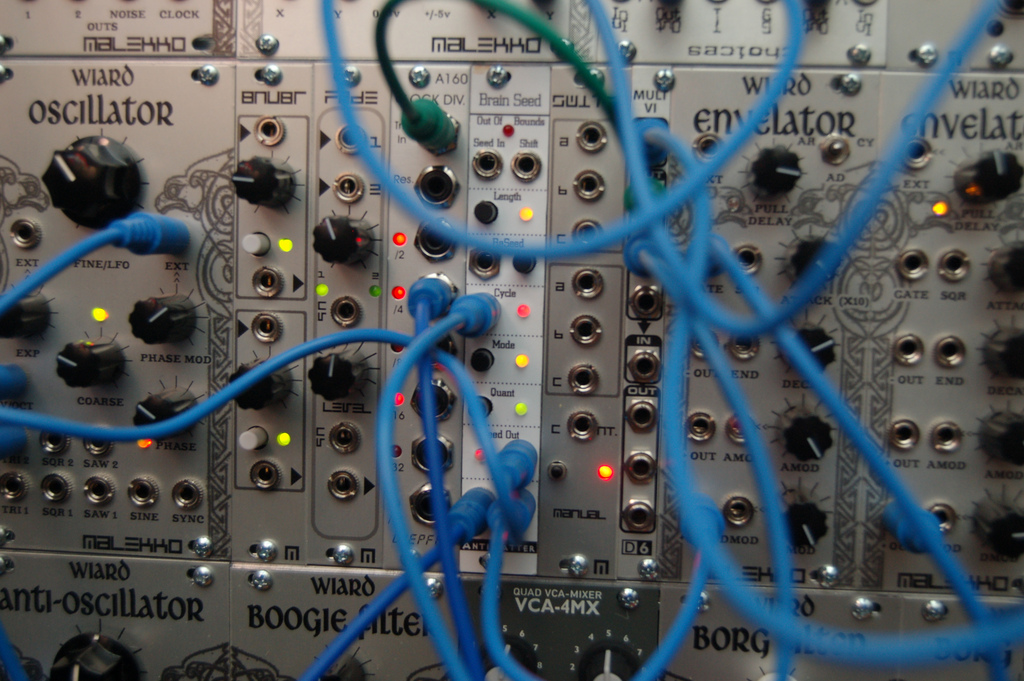
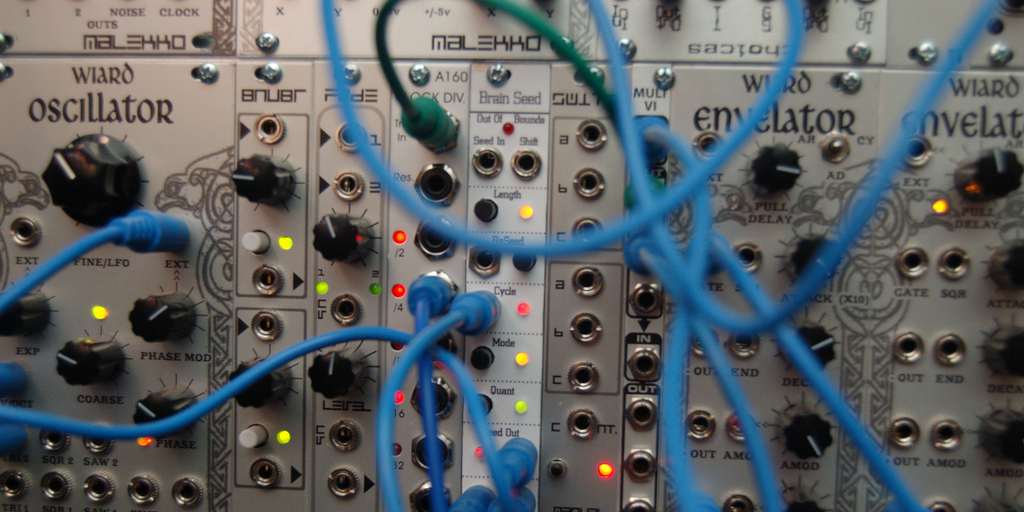
Aggiunto post su ESAPI e le stringhe pseudocasuali e ridimensionate alcune immagini

diff --git a/_includes/_footer.html b/_includes/_footer.html
@@ -1,6 +1,1 @@
 <span>codiceinsicuro.it v {{site.version}} &mdash; &copy; {{ site.time | date: '%Y' }} {{ site.owner.name }}. Powered by <a href="http://jekyllrb.com">Jekyll</a> using the <a href="http://mademistakes.com/minimal-mistakes/">Minimal Mistakes</a> theme.</span>
-
-<a title="Real Time Analytics" href="http://clicky.com/100726702"><img alt="Real Time Analytics" src="//static.getclicky.com/media/links/badge.gif" border="0" /></a>
-<script src="//static.getclicky.com/js" type="text/javascript"></script>
-<script type="text/javascript">try{ clicky.init(100726702); }catch(e){}</script>
-<noscript><p><img alt="Clicky" width="1" height="1" src="//in.getclicky.com/100726702ns.gif" /></p></noscript>

diff --git a/_posts/2014-05-15-creiamo-una-stringa-di-caratteri-casuali-con-owasp-esapi-e-java.md b/_posts/2014-05-15-creiamo-una-stringa-di-caratteri-casuali-con-owasp-esapi-e-java.md
@@ -1,0 +1,100 @@
+---
+layout: post
+title: "Creiamo una stringa di caratteri casuali con Owasp ESAPI e Java"
+modified:
+category: [builders, quick howto]
+tags: [owasp, owasp esapi, java, numero casuale, pseudorandom, h4f]
+image:
+  feature: random_string_2.png
+  credit: Jannis Andrija Schnitzer
+  creditlink: https://flic.kr/p/3wEaFB
+comments: true
+share: true
+---
+
+Spesso si ha l'esigenza di creare una stringa di caratteri alfanumerici che sia
+casuale. Ad esempio possiamo usarla come password temporanea, come salt per
+offuscare una password, come chiave, ...
+
+Senza inventare un'altra volta la ruota, possiamo usare la libreria [Owasp
+ESAPI **LINK**](#)[^1]. Il progetto Owasp ESAPI nasce con lo scopo di fornire
+una serie di API che realizzano controlli di sicurezza. Il codice è opensource
+e viene costantemente rivisto dalla community. Io ero il maintainer di [Owasp
+ESAPI for ruby](https://rubygems.org/gems/owasp-esapi-ruby) anche se è un paio
+d'anni che mi riprometto di riprendere in mano tutto... non è detto che un
+giorno non lo faccia.
+
+Per compilare ed eseguire il codice che poi vi mostro, avete bisogno del jar
+file della libreria che potete recuperare partendo dalla pagina del progetto
+sul sito [Owasp **LINK**](#)
+
+Inoltre avrete bisogno di un file, ESAPI.properties che contiene alcune
+configurazioni per il fine tuning della libreria. Ecco, io me lo sono pescato
+dal repository dei sorgenti, potrebbe essere una bella miglioria se questo file
+venisse generato con i valori di default nel caso non fosse trovato.
+
+Il mio lo potete trovare [qui]({{ site.url }}/assets/resources/ESAPI.properties).
+
+Il codice di per se è abbastanza banale. Create un'istanza della classe
+DefaultRandomizer e le chiedete di generare per voi una stringa random di 32
+caratteri alfanumerici.
+
+Tutta la magia è nella libreria e voi avete la voltra stringa random in 2 righe
+di codice.
+
+{% highlight java %}
+import org.owasp.esapi.reference.DefaultRandomizer;
+import org.owasp.esapi.EncoderConstants;
+
+public class CreateRandomString {
+  public static void main(String args[]){
+    DefaultRandomizer r = (DefaultRandomizer) DefaultRandomizer.getInstance();
+    System.out.println("32 char string: " + r.getRandomString(32, EncoderConstants.CHAR_ALPHANUMERICS));
+    }
+}
+{% endhighlight %}
+
+Compilare ed eseguire il codice è semplice. Io, come sapete, non scrivo codice
+Java dai tempi di [Owasp Orizon **LINK**](#), quindi non ho un ambiente
+preparato e non ho un $CLASSPATH interessante. Passo il percorso del JAR di
+Owasp Esapi direttamente da linea di comando, ipotizzando si trovi nella stessa
+directory dove avete creato il file CreateRandomString.java.
+
+Lo stesso dicasi per l'esecuzione della classe, in questo caso il $CLASSPATH
+dovrà avere anche la directory '.' in quando il vostro bytecode si trova lì e
+java non lo include automaticamente tra i path da cercare.
+
+L'output come vedete è una stringa, in questo caso specifico di 32 caratteri,
+con un encoding che ne permette la semplice memorizzazione senza dover
+ricorrere alla codifica unicode. I caratteri di questa stringa sono generati
+con le API SecureRandom del JDK. In questo caso le chiamate di ESAPI sono solo
+dei wrapper e poco più, alla chiamata nativa e sicura offerta dal linguaggio.
+
+{% highlight text %}
+$ javac -cp esapi-2.1.0.jar CreateKeys.java
+$ java -cp esapi-2.1.0.jar:. CreateKeys
+
+32 char string: nTIL3FJccrnkfbbYiJsBiRDQkovdkLjj
+{% endhighlight %}
+
+## Off by one
+
+[Owasp ESAPI **LINK**](#) è un bel progettone ed offre agli sviluppatori delle
+API che possono essere utilizzate in codice di produzione per aggiungere
+controlli di security. Il codice ha un livello di maturità tale da essere usato
+in portali di grosse dimensioni senza il pericolo che faccia crollare il vostro
+bel castello di carte.
+
+ESAPI è disponibile in molti linguaggi oltre a Java: PHP, Ruby, .NET tra quelli
+più usati per le web application. Sarebbe interessante farne il porting anche
+per Go o qualche framework javascript come NodeJs.
+
+Sicuramente usare un'API come [Owasp ESAPI **LINK**](#) non può che aiutare lo
+sviluppatore ad introdurre controlli di security senza dover entrare nel
+dettaglio di quali siano tutti i modi per mitigare un cross site scripting, una
+sql injection o un cross site request forgery.
+
+[^1]: Cos'è Owasp? Owasp è un acronimo per Open Web Application Security
+      Project. E' una community che raccoglie specialisti del settore dell'ICT
+      security con lo scopo di creare awareness, realizzare guide e documentazione,
+      realizzare codice che permettano lo sviluppo di applicazioni web sicure.

diff --git a/index.md b/index.md
@@ -3,8 +3,35 @@ layout: home
 description: "Codice Insicuro: il primo blog italiano di application security croccante fuori, morbido dentro"
 tags: [blog, codiceinsicuro]
 image:
-  feature:
-  credit:
-  creditlink:
+  feature: headline.jpg
+  credit: Il mio ciliegio in fiore
+  creditlink: http://www.flickr.com/photos/thesp0nge/
 ---
 
+Benvenuto nel primo blog italiano di application security croccante fuori e
+morbido dentro: [codiceinsicuro.it]({{site.url}}).
+
+Qui si parla di sicurezza applicativa codice alla mano. Non è un blog dove si
+ripubblicano notizie prese da altre fonti o si fa _fantasecurity_.
+
+Questo blog non ha backdoor piazzate dall'NSA, non sono stato rapito
+ultimamente da agenti in completo nero e occhiali da sole e non uso #sha7 per
+cifrare il mio traffico.
+
+&nbsp;
+
+I post sono scritti usando [vim](http://www.vim.org), formattati con
+[Markdown](http://daringfireball.net/projects/markdown) e trasformati in questa
+chicca di blog da [Jekyll](http://jekyllrb.com).
+
+&nbsp;
+
+{% capture count %}{{ site.posts.size }}{%endcapture%}
+Qui sotto puoi trovare gli ultimi post in ordine di tempo, mentre se vuoi
+navigare tutti i {{count}} post che ho scritto finora, devi andare
+[qui]({{site.url}}/posts)
+
+Ricordati di lasciare un tuo commento, il blog è più croccante se lo facciamo
+crescere in due.
+
+_[Paolo](mailto:paolo@armoredcode.com)_

diff --git a/about.md b/about.md
@@ -72,8 +72,7 @@ Per qualsiasi dubbio o perplessità mi trovate via email qui:
 
 ### Qualche dato
 
-{% capture count %}{{ site.posts.size }}{%endcapture%}
-Sono stati scritti {{ count }} posts ad oggi. Il primo è stato scritto il {{ site.posts[2].date | date: "%d/%m/%Y"}} mentre l'ultimo il {{ site.posts[0].date | date: "%d/%m/%Y" }}.
+Sono stati scritti {{ count }} posts ad oggi. Il primo è stato scritto il {{ site.posts.last.date | date: "%d/%m/%Y"}} mentre l'ultimo il {{ site.posts.first.date | date: "%d/%m/%Y" }}.
 
 
 [^1]: sempre un blog di application security, in inglese, aperto il 16 Marzo 2011.
